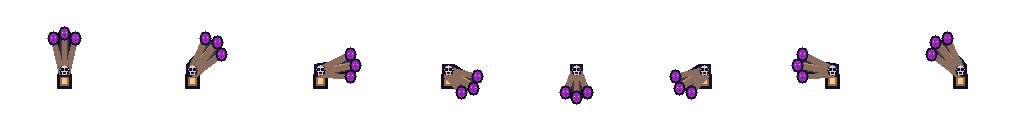
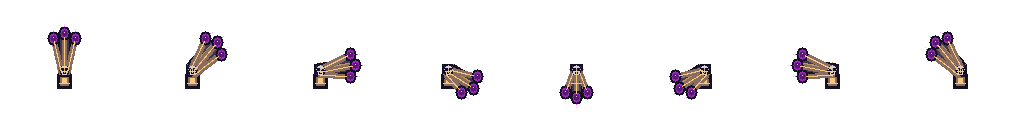
Art: improve Legion eight-direction soul weapon candidate (#341)
* Detail eight-direction Legion soul conduits in editable pixel source

* Export eight-direction detailed Legion pixel weapon candidate

* Record Legion directional weapon art iteration and QA boundary

* Record Legion directional weapon art iteration and QA boundary

* Record Legion directional weapon art iteration and QA boundary

* Record Legion directional weapon art iteration and QA boundary

* Record Legion directional weapon art iteration and QA boundary

* Repair binary PNG export and palette checksum for Legion 8-way art

diff --git a/tools/generate_necro_modular_candidates.py b/tools/generate_necro_modular_candidates.py
@@ -127,6 +127,22 @@ def reaper_detail(im,dx,dy,x,y):
  point(im,66,68,12)
  for k in (1,2,3):
   point(im,tx+dx*k+sx*5,ty+dy*k+sy*5,12)
+def legion_detail(im,dx,dy,x,y):
+ # A triple soul conduit: gilded arms, distinct runic skulls and violet sparks.
+ sx,sy=-dy,dx
+ for q in (-1,0,1):
+  ex=x+sx*q*11+dx*(5 if q==0 else 0)
+  ey=y+sy*q*11+dy*(5 if q==0 else 0)
+  line(im,64+sx*q*3,72+sy*q*3,ex,ey,0,7)
+  oval(im,ex,ey,3,3,9)
+  point(im,ex,ey-1,12)
+  point(im,ex+dx*7,ey+dy*7,11)
+  point(im,ex+dx*9,ey+dy*9,12)
+ for k in (-1,0,1):
+  x0=64+sx*k*7
+  y0=69+sy*k*7
+  point(im,x0,y0,6)
+ line(im,59,83,69,83,0,7)
 def weapon(branch):
  atlas=canvas(1024,128)
  for idx,(dx,dy) in enumerate(DIRECTIONS):
@@ -155,6 +171,7 @@ def weapon(branch):
     oval(im,ex,ey,6,7,1);oval(im,ex,ey,4,5,10)
     point(im,ex-2,ey-1,12);point(im,ex+2,ey-1,12);point(im,ex,ey+2,1)
    skull(im,64,70)
+   legion_detail(im,dx,dy,x,y)
   atlas.paste(im,(idx*128,0))
  return atlas
 def rgba(im):

diff --git a/docs/ROADMAP.md b/docs/ROADMAP.md
@@ -1,5 +1,8 @@
 # АКТУАЛЬНЫЙ ПЛАН — 01.11.2026 (после PR #314)
 
+**02.11.2026 — Легион v3 (черновой Pixel Art, без runtime):** обновлены исходник `legion_detail()` в `tools/generate_necro_modular_candidates.py` и настоящий восьмикадровый PNG `candidate/weapon/legion/weapon_8way.png`. Добавлены декоративные золотые рунические крепления, три светящихся излучателя и магические искры, ориентированные по восьми направлениям. Это прототип, НЕ финально утверждённый артефакт. Рендер, production manifest (`runtime_enabled=false`) и остальные пять кандидатных PNG не менялись. Проверить воспроизведение RGBA в CI, ручная художественная приёмка ещё не выполнена.
+
+
 **02.11.2026 — Жнец v3 (на художественную проверку):** детализирован 8-направленный `candidate/weapon/reaper/weapon_8way.png`: фиолетовая кромка косы, золотые рунические насечки, цепи, свечения и частицы на острие. Код воспроизводится `reaper_detail()` в генераторе; CI проверяет точное совпадение RGBA по всем шести кандидатам. Это не окончательный художественный уровень и не включение runtime. В игре остаётся утверждённый цельный спрайт. Основания, base/Legion, gameplay и production manifest не тронуты.
 
 

diff --git a/docs/AI_HANDOFF_PIXEL_ART.md b/docs/AI_HANDOFF_PIXEL_ART.md
@@ -1,5 +1,8 @@
 # Last Ritual — Handoff: Pixel Art Migration & Soul Altar Rework
 
+**02.11.2026 — Легион v3 (черновой Pixel Art, без runtime):** обновлены исходник `legion_detail()` в `tools/generate_necro_modular_candidates.py` и настоящий восьмикадровый PNG `candidate/weapon/legion/weapon_8way.png`. Добавлены декоративные золотые рунические крепления, три светящихся излучателя и магические искры, ориентированные по восьми направлениям. Это прототип, НЕ финально утверждённый артефакт. Рендер, production manifest (`runtime_enabled=false`) и остальные пять кандидатных PNG не менялись. Проверить воспроизведение RGBA в CI, ручная художественная приёмка ещё не выполнена.
+
+
 **02.11.2026 — Жнец v3 (на художественную проверку):** детализирован 8-направленный `candidate/weapon/reaper/weapon_8way.png`: фиолетовая кромка косы, золотые рунические насечки, цепи, свечения и частицы на острие. Код воспроизводится `reaper_detail()` в генераторе; CI проверяет точное совпадение RGBA по всем шести кандидатам. Это не окончательный художественный уровень и не включение runtime. В игре остаётся утверждённый цельный спрайт. Основания, base/Legion, gameplay и production manifest не тронуты.
 
 

diff --git a/docs/PROJECT_STATE.md b/docs/PROJECT_STATE.md
@@ -1,5 +1,8 @@
 # ТЕКУЩИЙ СНИМОК — 01.11.2026 (после PR #314)
 
+**02.11.2026 — Легион v3 (черновой Pixel Art, без runtime):** обновлены исходник `legion_detail()` в `tools/generate_necro_modular_candidates.py` и настоящий восьмикадровый PNG `candidate/weapon/legion/weapon_8way.png`. Добавлены декоративные золотые рунические крепления, три светящихся излучателя и магические искры, ориентированные по восьми направлениям. Это прототип, НЕ финально утверждённый артефакт. Рендер, production manifest (`runtime_enabled=false`) и остальные пять кандидатных PNG не менялись. Проверить воспроизведение RGBA в CI, ручная художественная приёмка ещё не выполнена.
+
+
 **02.11.2026 — Жнец v3 (на художественную проверку):** детализирован 8-направленный `candidate/weapon/reaper/weapon_8way.png`: фиолетовая кромка косы, золотые рунические насечки, цепи, свечения и частицы на острие. Код воспроизводится `reaper_detail()` в генераторе; CI проверяет точное совпадение RGBA по всем шести кандидатам. Это не окончательный художественный уровень и не включение runtime. В игре остаётся утверждённый цельный спрайт. Основания, base/Legion, gameplay и production manifest не тронуты.
 
 

diff --git a/docs/AI_HANDOFF.md b/docs/AI_HANDOFF.md
@@ -1,5 +1,8 @@
 # CURRENT HANDOFF — 2026-11-01 (main after PR #314)
 
+**02.11.2026 — Легион v3 (черновой Pixel Art, без runtime):** обновлены исходник `legion_detail()` в `tools/generate_necro_modular_candidates.py` и настоящий восьмикадровый PNG `candidate/weapon/legion/weapon_8way.png`. Добавлены декоративные золотые рунические крепления, три светящихся излучателя и магические искры, ориентированные по восьми направлениям. Это прототип, НЕ финально утверждённый артефакт. Рендер, production manifest (`runtime_enabled=false`) и остальные пять кандидатных PNG не менялись. Проверить воспроизведение RGBA в CI, ручная художественная приёмка ещё не выполнена.
+
+
 **02.11.2026 — Жнец v3 (на художественную проверку):** детализирован 8-направленный `candidate/weapon/reaper/weapon_8way.png`: фиолетовая кромка косы, золотые рунические насечки, цепи, свечения и частицы на острие. Код воспроизводится `reaper_detail()` в генераторе; CI проверяет точное совпадение RGBA по всем шести кандидатам. Это не окончательный художественный уровень и не включение runtime. В игре остаётся утверждённый цельный спрайт. Основания, base/Legion, gameplay и production manifest не тронуты.
 
 

diff --git a/assets/spire/towers/necro/candidate/SOURCE.md b/assets/spire/towers/necro/candidate/SOURCE.md
@@ -1,5 +1,8 @@
 # Алтарь душ — модульный пиксельный прототип (НЕ УТВЕРЖДЁН)
 
+**02.11.2026 — Легион v3 (черновой Pixel Art, без runtime):** обновлены исходник `legion_detail()` в `tools/generate_necro_modular_candidates.py` и настоящий восьмикадровый PNG `candidate/weapon/legion/weapon_8way.png`. Добавлены декоративные золотые рунические крепления, три светящихся излучателя и магические искры, ориентированные по восьми направлениям. Это прототип, НЕ финально утверждённый артефакт. Рендер, production manifest (`runtime_enabled=false`) и остальные пять кандидатных PNG не менялись. Проверить воспроизведение RGBA в CI, ручная художественная приёмка ещё не выполнена.
+
+
 **Жнец v3 (02.11.2026, candidate-only):** оружейный атлас `weapon/reaper/weapon_8way.png` обновлён: фиолетовая режущая кромка, золотые рунические насечки, цепные звенья, две светящиеся глазницы и частицы на острие для каждого из 8 направлений. Соответствующие правки в `reaper_detail()` генератора `tools/generate_necro_modular_candidates.py`. Не является утверждённым художником финальным спрайтом и не используется в runtime. Base/Легион/основания не изменены.
 
 
